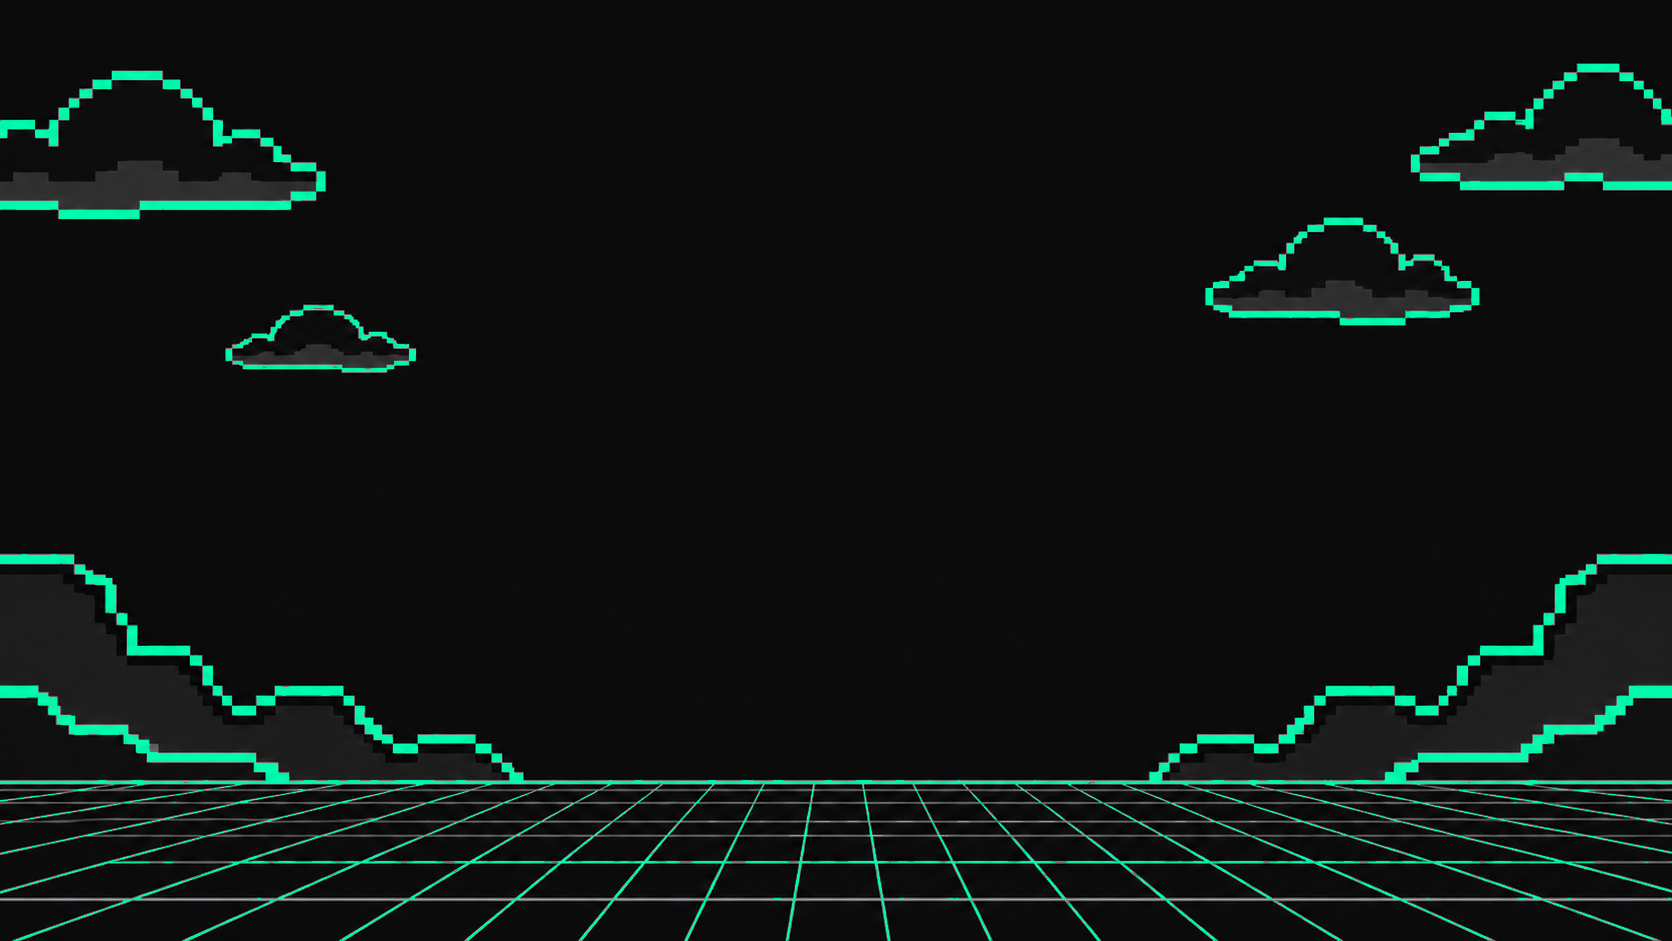
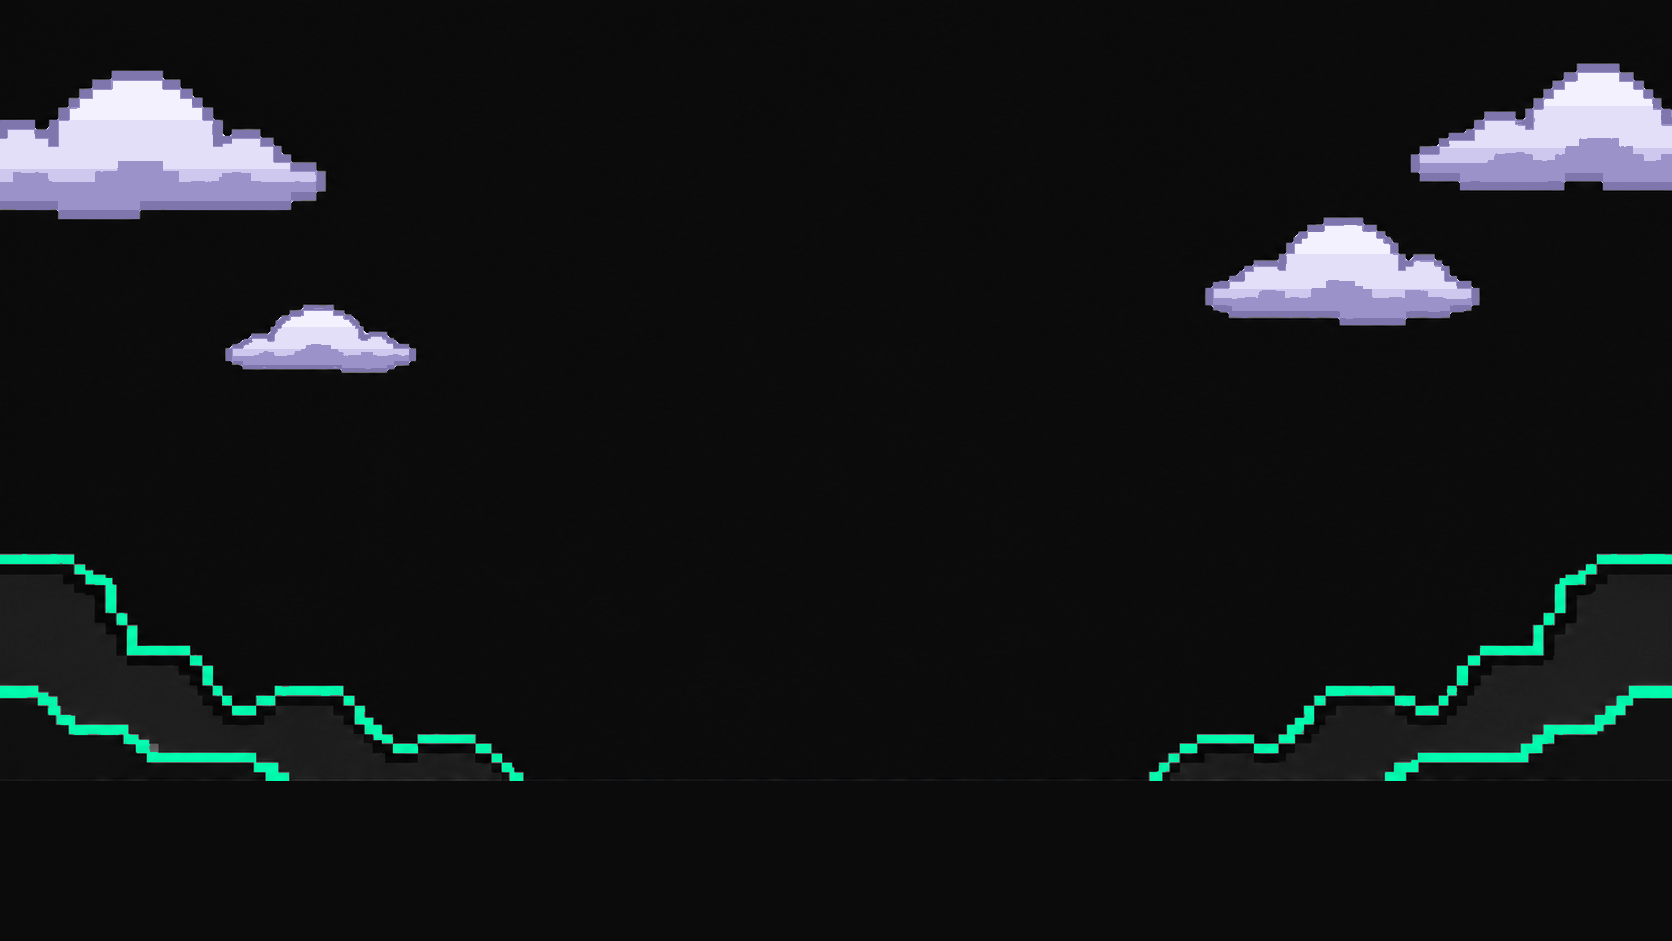
ui: hero clouds in a natural palette + animated vaporwave floor with a seamless loop (095)
Clouds: scripts/build_hero_scene.py repaints them from the untouched sources in
assets-raw/hero/ (lavender-grey outline, white -> light lavender bands, the old
grey band as the soft lower shadow; no green left in the sky) and clears the
painted floor below the horizon. Hills unchanged. Scene scaled pixelated.

Floor: app/hero-floor.tsx - static SVG rays (perspective wedges) + cross lines on
a plane laid flat by rotateX(90deg) under a CSS perspective with the eye on the
horizon; it rides one whole-pixel tile per 2.5 s cycle (transform only, linear),
so the last frame equals the first (pixel diff 0 at 1920 and 390). Fog mask at
the horizon, accent line + soft glow. Off with prefers-reduced-motion.

diff --git a/app/hero-header.css b/app/hero-header.css
@@ -1,6 +1,7 @@
 /* GUI redesign: header + hero (reference: newheader.png / newheadermobile.png).
-   Loaded after globals.css (app/layout.tsx) and reuses its component classes; the four scene
-   backgrounds in public/hero/ are used unchanged. Header switches to the burger at ≤1279px
+   Loaded after globals.css (app/layout.tsx) and reuses its component classes. Scene backgrounds:
+   public/hero/dark*.png (sky, clouds, hills; built by scripts/build_hero_scene.py) + the CSS floor
+   below the horizon (app/hero-floor.tsx, task 095). Header switches to the burger at ≤1279px
    (same breakpoint as app/mobile-menu.tsx), the hero to the portrait scene at ≤768px. */
 :root {
   --scene-color: #0a0a0a;
@@ -279,6 +280,13 @@ body { background: var(--page); }
     var(--hero-h) - 72px - var(--horizon) * var(--scene-h));
   /* Visible grid below the horizon; the scroll cue sits on this line. */
   --grid-zone: calc(var(--hero-h) - var(--scene-y) - var(--horizon) * var(--scene-h));
+  /* Floor (task 095, app/hero-floor.tsx): the artwork's floor height (= eye height under the horizon) is the
+     unit of the CSS grid; the horizon in hero coordinates; one grid tile; one ride cycle. */
+  --fh: calc((1 - var(--horizon)) * var(--scene-h));
+  --horizon-y: calc(var(--scene-y) + var(--horizon) * var(--scene-h));
+  /* Whole pixels: line k sits at k tiles, so after one cycle it lands exactly where line k−1 started. */
+  --floor-tile: round(calc(var(--fh) * .625), 1px);
+  --floor-cycle: 2.5s;
   min-height: calc(100vh - var(--header-height));
   min-height: var(--hero-h);
   background-color: var(--scene-color);
@@ -287,8 +295,11 @@ body { background: var(--page); }
   background-size: auto var(--scene-h);
   background-position-x: center;
   background-position-y: var(--scene-y);
+  /* Pixel art: the scene is scaled without smoothing; the page content keeps normal image scaling. */
+  image-rendering: pixelated;
   color: var(--scene-ink);
 }
+.hero-shell > .hero > * { image-rendering: auto; }
 .hero-content {
   box-sizing: border-box;
   width: min(1100px, calc(100% - 40px));
@@ -444,6 +455,75 @@ body { background: var(--page); }
   margin-top: -6px;
 }
 @keyframes scroll-cue { 50% { transform: translateY(5px); } }
+
+/* ---------- Hero floor (task 095, app/hero-floor.tsx) ----------
+   Below the horizon of the scene PNG: rays to the vanishing point (static SVG) and cross lines on a plane laid
+   flat in a CSS perspective (eye on the horizon, --fh above the plane at the artwork's bottom edge). The plane
+   moves towards the viewer by exactly one tile per cycle (transform only, linear), so the loop has no seam.
+   Fog: the strip just under the horizon is masked out; the farthest line is born there. */
+.hero-floor {
+  position: absolute;
+  z-index: -1;
+  left: 0;
+  right: 0;
+  top: var(--horizon-y);
+  bottom: 0;
+  overflow: hidden;
+  pointer-events: none;
+  -webkit-mask-image: linear-gradient(to bottom, transparent calc(var(--fh) * .11), #000 calc(var(--fh) * .26));
+  mask-image: linear-gradient(to bottom, transparent calc(var(--fh) * .11), #000 calc(var(--fh) * .26));
+}
+.hero-floor-rays {
+  position: absolute;
+  top: 0;
+  left: 50%;
+  width: calc(var(--fh) * 12);
+  height: var(--fh);
+  transform: translateX(-50%);
+  fill: var(--accent);
+}
+.hero-floor-depth {
+  position: absolute;
+  inset: 0;
+  perspective: calc(var(--fh) * 1.7);
+  perspective-origin: 50% 0;
+}
+.hero-floor-plane {
+  position: absolute;
+  top: var(--fh);
+  left: 50%;
+  transform-style: preserve-3d;
+  transform: rotateX(90deg);
+  animation: floor-ride var(--floor-cycle) linear infinite;
+}
+/* Line i lies i tiles away; it is as wide as the viewport at that depth (perspective 1.7 floor heights). */
+.hero-floor-plane > i {
+  --half: calc(var(--fh) * 5.4 * (1 + var(--i) * .3677));
+  position: absolute;
+  top: calc(var(--floor-tile) * var(--i) * -1);
+  left: calc(var(--half) * -1);
+  width: calc(var(--half) * 2);
+  height: calc(var(--fh) * .05);
+  background: var(--accent);
+  transform: translateZ(0);
+}
+@keyframes floor-ride {
+  from { transform: rotateX(90deg) translateY(0); }
+  to { transform: rotateX(90deg) translateY(var(--floor-tile)); }
+}
+/* Horizon: a crisp line in the accent with a soft glow above and below it. */
+.hero-horizon {
+  position: absolute;
+  z-index: -1;
+  left: 0;
+  right: 0;
+  top: calc(var(--horizon-y) - var(--fh) * .14);
+  height: calc(var(--fh) * .28);
+  pointer-events: none;
+  background:
+    linear-gradient(var(--accent), var(--accent)) center / 100% max(2px, calc(var(--fh) * .016)) no-repeat,
+    linear-gradient(to bottom, transparent, color-mix(in srgb, var(--accent) 20%, transparent) 50%, transparent);
+}
 .pets-section { border-top-color: var(--scene-border); }
 
 @media (min-width: 769px) and (max-width: 1200px) {
@@ -551,6 +631,7 @@ body { background: var(--page); }
 @media (prefers-reduced-motion: reduce) {
   html { scroll-behavior: auto; }
   .hero-scroll { animation: none; }
+  .hero-floor-plane { animation: none; }
   .pixel-ui :is(.button, .menu-button, .social-x, .nft-lightbox-close, .pet-tab) { transition: none; }
 }
 

diff --git a/app/hero-floor.tsx b/app/hero-floor.tsx
@@ -1,0 +1,49 @@
+import type { CSSProperties } from "react";
+
+/*
+  Vaporwave floor under the hero scene (task 095): a grid in perspective that rides forward in a seamless loop.
+  The scene PNG (public/hero/*.png, scripts/build_hero_scene.py) ends at the horizon; this draws everything below.
+  All sizes are in units of the artwork's floor height (--fh in app/hero-header.css = eye height under the horizon),
+  so the grid scales with the scene exactly like the old painted one did.
+  - Rays (the lines running to the vanishing point): static SVG. A ray never moves while riding forward. Each one
+    is a thin wedge from the vanishing point, RAY wide at the bottom edge, so it narrows with distance exactly like
+    a painted strip on the floor would (a constant stroke merged the far rays into a green wash at the sides).
+  - Cross lines: LINES strips on a plane laid flat by rotateX(90deg) under a CSS perspective whose origin is the
+    centre of the horizon. One cycle moves the plane by exactly one tile (transform only), so line k ends where
+    line k−1 started: the frame at the end of a cycle equals the first one. The farthest line sits under the fog
+    (mask) near the horizon, the nearest leaves through the bottom edge.
+  Grid cell = TILE × TILE floor heights (square cells), the ray spacing at the bottom edge is TILE as well.
+*/
+const TILE = 0.625; // = --floor-tile in app/hero-header.css
+const LINES = 26;
+// Rays out to ±35 floor heights at the bottom edge: they reach the sides of a 16:9 scene (±5.2 floor heights)
+// from .15 floor heights under the horizon, inside the fog; farther ones would only thicken the green wash there.
+const RAYS = 56;
+const RAY = 0.028;
+
+const rays = Array.from({ length: RAYS * 2 + 1 }, (_, i) => {
+  const x = (i - RAYS) * TILE;
+  return `0,0 ${+(x - RAY / 2).toFixed(4)},1 ${+(x + RAY / 2).toFixed(4)},1`;
+});
+
+export default function HeroFloor() {
+  return (
+    <>
+      <div className="hero-floor" aria-hidden="true">
+        <svg className="hero-floor-rays" viewBox="-6 0 12 1" preserveAspectRatio="none">
+          {rays.map((points) => (
+            <polygon key={points} points={points} />
+          ))}
+        </svg>
+        <div className="hero-floor-depth">
+          <div className="hero-floor-plane">
+            {Array.from({ length: LINES + 1 }, (_, i) => (
+              <i key={i} style={{ "--i": i } as CSSProperties} />
+            ))}
+          </div>
+        </div>
+      </div>
+      <div className="hero-horizon" aria-hidden="true" />
+    </>
+  );
+}

diff --git a/app/page.tsx b/app/page.tsx
@@ -13,6 +13,7 @@ import DropSection from "./drop-section";
 import CoinSection from "./coin-section";
 import MeetYourGotchi from "./meet-your-gotchi";
 import Wordmark from "./wordmark";
+import HeroFloor from "./hero-floor";
 
 export const metadata: Metadata = pageMeta({
   path: "/",
@@ -23,8 +24,10 @@ export const metadata: Metadata = pageMeta({
 export default function Home() {
   return (
     <main className="hero-shell">
-      {/* Pixel scene (public/hero/*.png) behind a centred column: app/hero-header.css. */}
+      {/* Pixel scene (public/hero/*.png, scripts/build_hero_scene.py) behind a centred column: app/hero-header.css. */}
       <section id="home" className="hero" aria-labelledby="hero-title">
+        {/* Animated grid floor below the scene's horizon (task 095). */}
+        <HeroFloor />
         {/* Twinkling pixel stars in the sky on both sides of the title and the egg. */}
         <Sparkles
           count={8}

diff --git a/scripts/build_hero_scene.py b/scripts/build_hero_scene.py
@@ -1,0 +1,139 @@
+"""Hero scene backgrounds (task 095): public/hero/dark.png + darkmobile.png from the untouched sources in
+assets-raw/hero/ (the 089/093 versions of the artwork). Repeatable: always reads the sources, never its own output.
+  python3 scripts/build_hero_scene.py
+
+1. Clouds: the green outline and the grey band inside each cloud are repainted in a natural palette, pixel by
+   pixel (no smoothing): outline lavender-grey, inside white -> light lavender in hard bands, the grey band
+   (the cloud's own shading, lower edge) becomes the soft lavender shadow. No green is left in the sky.
+   A cloud's inside = sky pixels that a flood fill from open sky cannot reach through the outline (the clouds cut
+   by the frame are closed by the image edge).
+2. Floor: everything from the horizon line down is cleared to the sky colour; the grid is drawn and animated in
+   CSS on top (app/hero-floor.tsx, app/hero-header.css), so the PNG keeps only the sky, clouds and hills.
+3. Hills (and everything between the clouds and the horizon) are copied unchanged.
+"""
+from collections import deque
+from pathlib import Path
+
+import numpy as np
+from PIL import Image
+
+ROOT = Path(__file__).resolve().parent.parent
+SRC = ROOT / "assets-raw" / "hero"
+OUT = ROOT / "public" / "hero"
+
+# name: (horizon row = first row of the horizon line, last row that may hold clouds)
+SCENES = {"dark.png": (781, 520), "darkmobile.png": (1410, 1100)}
+
+OUTLINE = (0x7e, 0x76, 0xad)  # darker lavender-grey
+FILL = [(0xf4, 0xf1, 0xff), (0xe4, 0xdf, 0xf9), (0xcf, 0xc8, 0xee)]  # top -> bottom bands
+SHADOW = (0x9b, 0x92, 0xc9)  # the lower edge (was the grey band)
+
+
+CLOSE = 3  # px: largest outline gap that still closes a cloud
+
+
+def flood(passable, seeds):
+    """4-connected flood fill over `passable` from `seeds`."""
+    top, W = passable.shape
+    reach = np.zeros((top, W), bool)
+    q = deque(seeds)
+    for y, x in seeds:
+        reach[y, x] = True
+    while q:
+        y, x = q.popleft()
+        for ny, nx in ((y + 1, x), (y - 1, x), (y, x + 1), (y, x - 1)):
+            if 0 <= ny < top and 0 <= nx < W and not reach[ny, nx] and passable[ny, nx]:
+                reach[ny, nx] = True
+                q.append((ny, nx))
+    return reach
+
+
+def hexc(c):
+    return "#%02x%02x%02x" % c
+
+
+def build(name, horizon, sky_bottom):
+    a = np.asarray(Image.open(SRC / name).convert("RGB")).astype(int)
+    H, W, _ = a.shape
+    r, g, b = a[..., 0], a[..., 1], a[..., 2]
+    lum = a.max(2)
+    sky = a[2:12, W // 2 - 100 : W // 2 + 100].reshape(-1, 3).mean(0).round().astype(int)
+    top = sky_bottom
+    # Outline incl. its anti-aliased fringe: any pixel noticeably greener than red.
+    outline = (g[:top] - r[:top]) > 24
+    # The outline is drawn as stair blocks that often touch only at a corner or leave a 1–2 px gap, so the
+    # flood runs against the outline grown by CLOSE px, then grows back up to CLOSE px towards the outline.
+    barrier = outline.copy()
+    for dy in range(-CLOSE, CLOSE + 1):
+        for dx in range(-CLOSE, CLOSE + 1):
+            barrier[max(0, dy) : top + min(0, dy), max(0, dx) : W + min(0, dx)] |= outline[
+                max(0, -dy) : top + min(0, -dy), max(0, -dx) : W + min(0, -dx)]
+    reach = flood(~barrier, [(4, W // 2)])
+    for _ in range(CLOSE + 1):
+        grow = reach.copy()
+        grow[1:] |= reach[:-1]; grow[:-1] |= reach[1:]; grow[:, 1:] |= reach[:, :-1]; grow[:, :-1] |= reach[:, 1:]
+        reach = grow & ~outline
+    inside = ~reach & ~outline
+    # Label the clouds (outline + inside, 8-connected) to band each one by its own height.
+    cloud = inside | outline
+    label = np.zeros((top, W), int)
+    boxes = []
+    for y0 in range(top):
+        for x0 in range(W):
+            if cloud[y0, x0] and not label[y0, x0]:
+                n = len(boxes) + 1
+                label[y0, x0] = n
+                q = deque([(y0, x0)])
+                ys, size = [y0, y0], 0
+                while q:
+                    y, x = q.popleft()
+                    size += 1
+                    ys[0], ys[1] = min(ys[0], y), max(ys[1], y)
+                    for dy in (-1, 0, 1):
+                        for dx in (-1, 0, 1):
+                            ny, nx = y + dy, x + dx
+                            if 0 <= ny < top and 0 <= nx < W and cloud[ny, nx] and not label[ny, nx]:
+                                label[ny, nx] = n
+                                q.append((ny, nx))
+                boxes.append((ys[0], ys[1], size))
+    out = a.copy()
+    grey = lum[:top] > (int(sky.max()) + 22)  # the shading band inside a cloud (sky ≈ 10, band ≈ 50–60)
+    # Single noisy pixels in the band (lighter dots inside the shading) follow their 3x3 neighbourhood.
+    near = np.zeros((top, W), int)
+    for dy in (-1, 0, 1):
+        for dx in (-1, 0, 1):
+            near[max(0, dy) : top + min(0, dy), max(0, dx) : W + min(0, dx)] += grey[
+                max(0, -dy) : top + min(0, -dy), max(0, -dx) : W + min(0, -dx)]
+    grey = (grey & (near >= 3)) | (near >= 6)
+    clouds = 0
+    for n, (y0, y1, size) in enumerate(boxes, 1):
+        if size < 200:  # specks: the sky stays sky
+            out[:top][label == n] = sky
+            continue
+        clouds += 1
+        m = label == n
+        out[:top][m & outline] = OUTLINE
+        body = m & inside
+        out[:top][body & grey] = SHADOW
+        rows = np.arange(top)[:, None].repeat(W, 1)
+        t = (rows - y0) / max(1, y1 - y0)
+        for i, color in enumerate(FILL):
+            band = body & ~grey & (t >= i / 3) & (t < (i + 1) / 3 + (i == 2))
+            out[:top][band] = color
+    # Teal tint left in the dark halo around the old outline (e.g. rgb(1, 17, 26)) -> grey of the same lightness.
+    skyband = out[:top]
+    tint = (skyband[..., 1] - skyband[..., 0]) > 4
+    skyband[tint] = skyband[tint].mean(1, keepdims=True).round()
+    # Floor: from the horizon line down = plain sky colour; CSS draws the grid.
+    out[horizon:] = sky
+    # The row above holds the anti-aliased top of the old horizon line: repeat the hills' last clean row there.
+    out[horizon - 1] = out[horizon - 2]
+    still_green = int(((out[:top, :, 1] - out[:top, :, 0]) > 4).sum())
+    Image.fromarray(out.astype(np.uint8)).save(OUT / name, optimize=True)
+    print(f"{name}: {W}x{H}, {clouds} clouds, sky {hexc(tuple(sky))}, floor cleared from row {horizon} "
+          f"({horizon / H:.4f}), green px left in the sky: {still_green}")
+
+
+if __name__ == "__main__":
+    for name, (horizon, sky_bottom) in SCENES.items():
+        build(name, horizon, sky_bottom)
